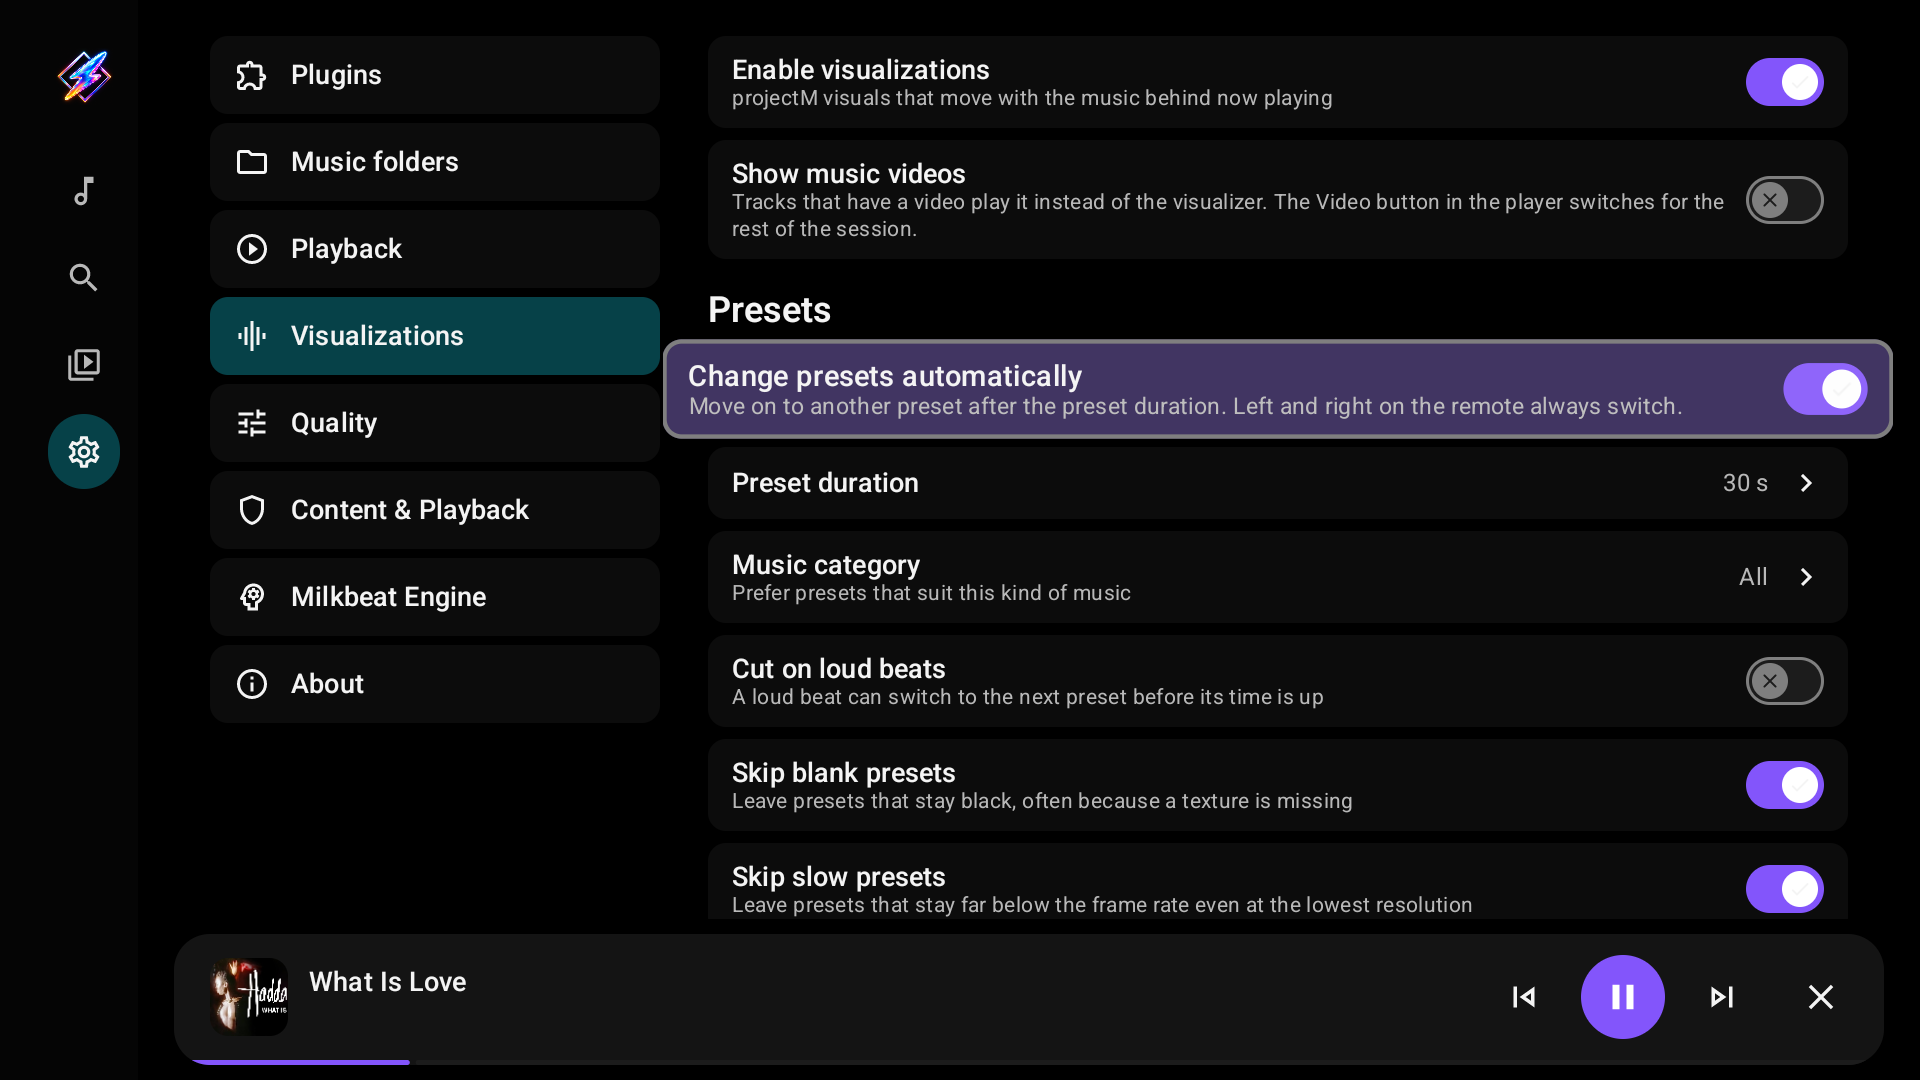
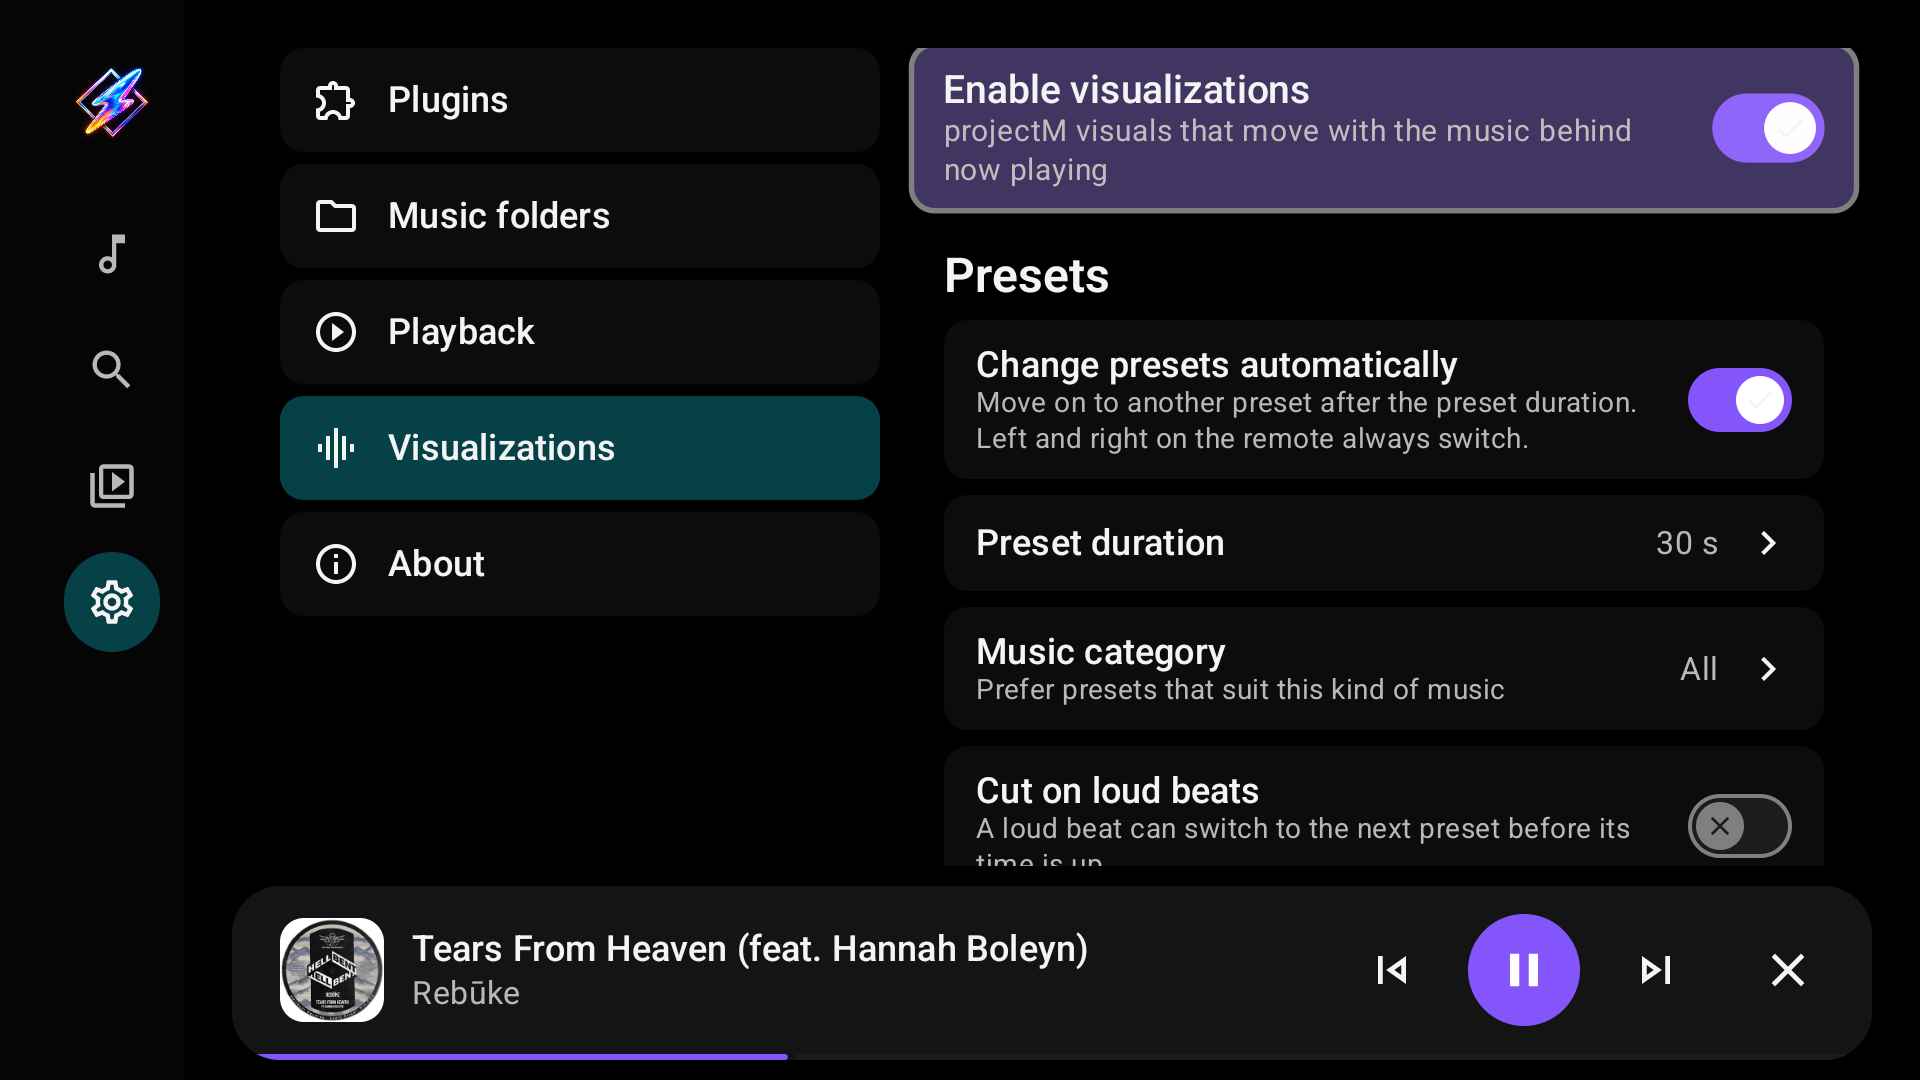
fix(player): show the cover itself in the artwork view
The artwork view reused the phone player's background, which blurs the cover
by default and never shows it sharp. On TV it now shows the cover filling the
screen. The user guide gets screenshots of the three views from a TCL G17, and
the Settings > Visualizations capture without the removed music-video toggle.

diff --git a/app/src/main/java/io/github/aedev/flow/ui/tv/music/TvMusicNowPlayingScreen.kt b/app/src/main/java/io/github/aedev/flow/ui/tv/music/TvMusicNowPlayingScreen.kt
@@ -13,7 +13,6 @@ import androidx.compose.foundation.layout.size
 import androidx.compose.material3.MaterialTheme
 import androidx.compose.runtime.Composable
 import androidx.compose.runtime.LaunchedEffect
-import androidx.compose.runtime.collectAsState
 import androidx.compose.runtime.getValue
 import androidx.compose.runtime.mutableLongStateOf
 import androidx.compose.runtime.mutableStateOf
@@ -31,16 +30,12 @@ import androidx.compose.ui.input.key.KeyEventType
 import androidx.compose.ui.input.key.onPreviewKeyEvent
 import androidx.compose.ui.input.key.type
 import androidx.compose.ui.platform.LocalConfiguration
-import androidx.compose.ui.platform.LocalContext
 import androidx.compose.ui.unit.dp
 import androidx.lifecycle.compose.collectAsStateWithLifecycle
-import io.github.aedev.flow.data.local.MusicPlayerBackgroundStyle
 import io.github.aedev.flow.data.local.NowPlayingView
-import io.github.aedev.flow.data.local.PlayerPreferences
 import io.github.aedev.flow.data.local.nextNowPlayingView
 import io.github.aedev.flow.data.local.shownNowPlayingView
 import io.github.aedev.flow.player.EnhancedMusicPlayerManager
-import io.github.aedev.flow.ui.components.musicplayer.full.PlayerBackground
 import io.github.aedev.flow.ui.components.shared.rememberMediaPalette
 import io.github.aedev.flow.ui.screens.music.MusicPlayerViewModel
 import io.github.aedev.flow.ui.tv.components.TvIconButtonColors
@@ -75,7 +70,6 @@ fun TvMusicNowPlayingScreen(
 ) {
     val tuning by viewModel.radioTuning.state.collectAsStateWithLifecycle()
     val manager = EnhancedMusicPlayerManager
-    val context = LocalContext.current
     val track by manager.currentTrack.collectAsStateWithLifecycle()
     val playerState by manager.playerState.collectAsStateWithLifecycle()
     val radioLoading by manager.radioLoading.collectAsStateWithLifecycle()
@@ -97,10 +91,6 @@ fun TvMusicNowPlayingScreen(
         nextNowPlayingView(shownView, videoAvailable = track?.isVideoSong == true, visualizerAvailable = visualizer != null)
     val dimens = LocalTvDimens.current
 
-    val playerPreferences = remember { PlayerPreferences(context) }
-    val backgroundStyle by playerPreferences.musicPlayerBackgroundStyle.collectAsState(
-        initial = MusicPlayerBackgroundStyle.BLUR_GRADIENT,
-    )
     val artworkUrl = track?.highResThumbnailUrl
     val palette = rememberMediaPalette(artworkUrl)
     // Translucent chips over the always-dark backdrop; latched toggles
@@ -298,13 +288,7 @@ fun TvMusicNowPlayingScreen(
             }
 
             NowPlayingView.STATIC -> {
-                PlayerBackground(
-                    thumbnailUrl = artworkUrl,
-                    style = backgroundStyle,
-                    paletteBaseColor = palette.base,
-                    paletteAccentColor = palette.accent,
-                    modifier = Modifier.fillMaxSize(),
-                )
+                TvNowPlayingArtwork(artworkUrl = artworkUrl)
             }
         }
 

diff --git a/app/src/main/java/io/github/aedev/flow/ui/tv/music/TvNowPlayingArtwork.kt b/app/src/main/java/io/github/aedev/flow/ui/tv/music/TvNowPlayingArtwork.kt
@@ -1,0 +1,23 @@
+package io.github.aedev.flow.ui.tv.music
+
+import androidx.compose.foundation.background
+import androidx.compose.foundation.layout.fillMaxSize
+import androidx.compose.runtime.Composable
+import androidx.compose.ui.Modifier
+import androidx.compose.ui.graphics.Color
+import androidx.compose.ui.layout.ContentScale
+import coil3.compose.AsyncImage
+
+/** The artwork view of now-playing: the track's cover filling the screen, edge to edge. */
+@Composable
+internal fun TvNowPlayingArtwork(
+    artworkUrl: String?,
+    modifier: Modifier = Modifier,
+) {
+    AsyncImage(
+        model = artworkUrl,
+        contentDescription = null,
+        contentScale = ContentScale.Crop,
+        modifier = modifier.fillMaxSize().background(Color.Black),
+    )
+}

diff --git a/docs/user-guide/playback.md b/docs/user-guide/playback.md
@@ -64,8 +64,14 @@ With **Change presets automatically** off, a preset stays until you press Left o
 
 ## Visualizer, music video or artwork
 
-The view button in the player steps through three views while audio continues: the visualizer (the default), the music video, and the track's static artwork. Milkbeat remembers the view you leave it on for later tracks and later sessions.
+The view button in the player steps through three views while audio continues: the visualizer (the default), the music video, and the track's cover filling the screen. Milkbeat remembers the view you leave it on for later tracks and later sessions.
 
 A track without a video skips from the visualizer straight to the artwork, and with the video view chosen it shows the visualizer instead. With visualizations turned off, the button moves between the video and the artwork. Unsupported or unavailable video falls back to audio and visuals.
+
+![The view button on the visualizer](images/now-playing-view-visualizer.png)
+
+![The music video view](images/now-playing-view-video.png)
+
+![The artwork view: the cover filling the screen](images/now-playing-view-artwork.png)
 
 ![Full-screen music-video example from the existing README](images/music-video.jpg)
